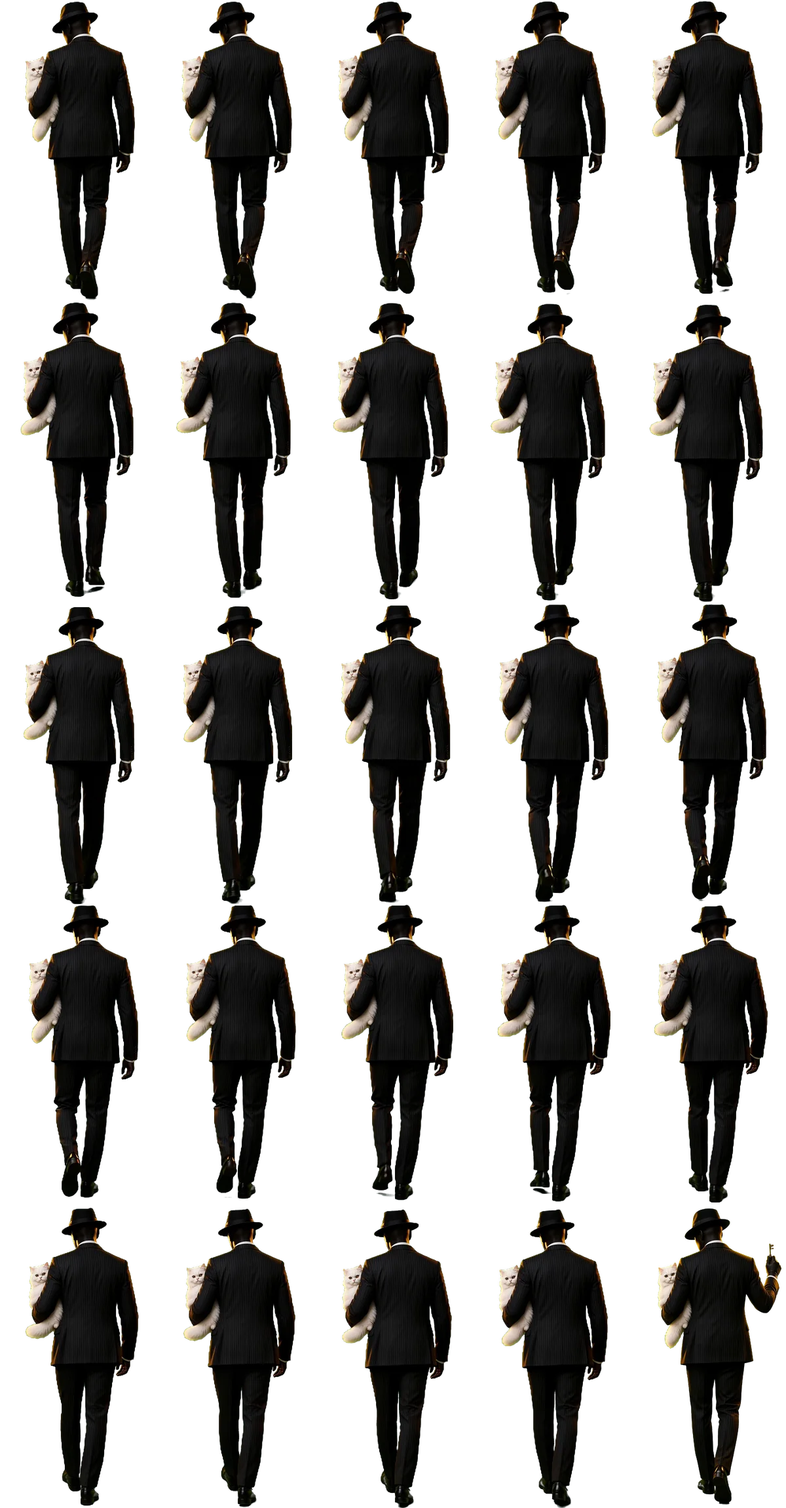
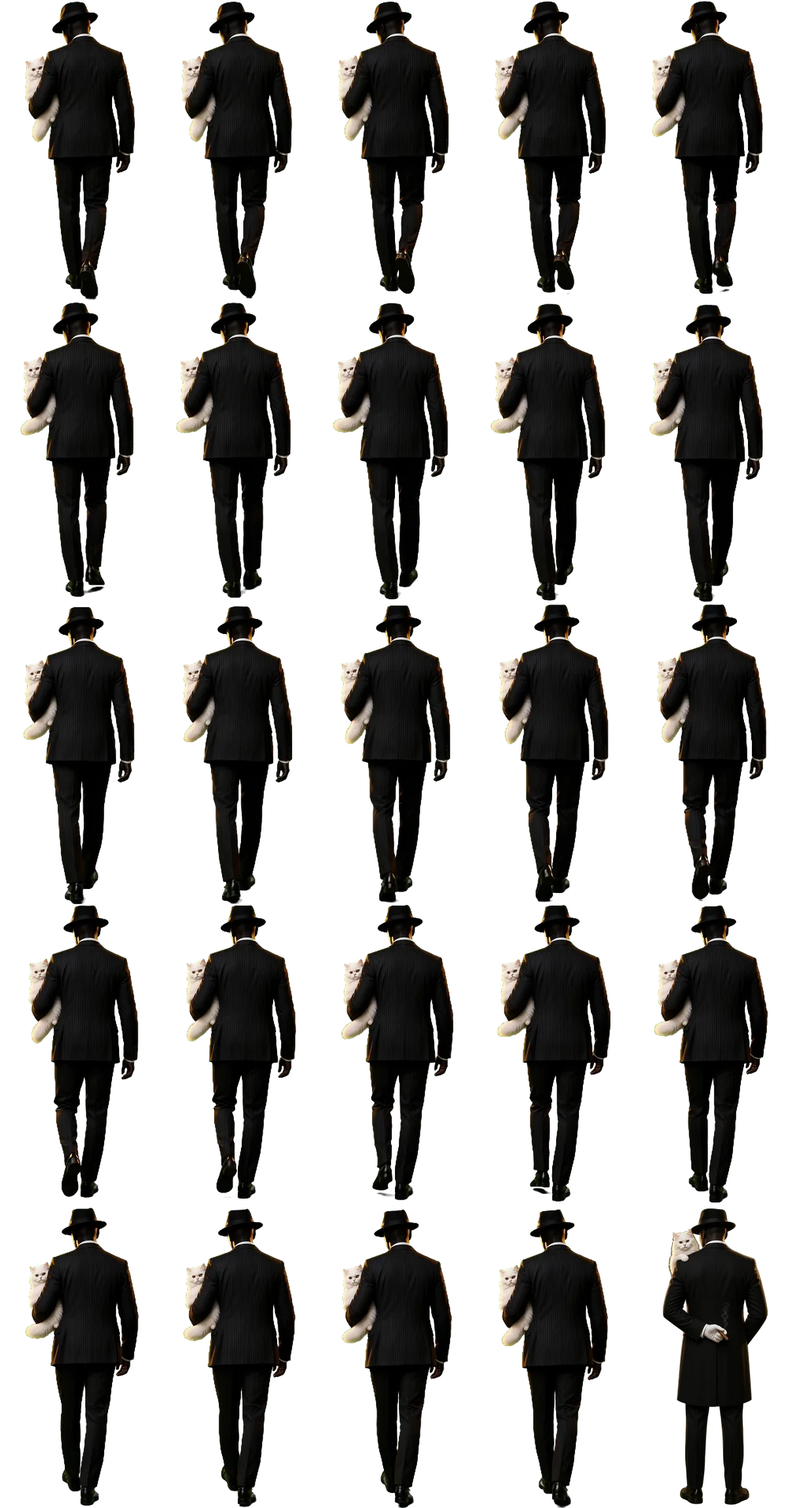
Wardrobe gate restyled as a palace doorway: carved honey-wood leaves with gilded rosettes and friezes, gilded architrave, white marble and trim; Lorenzo as doorman (tailcoat, white gloves, hand on the handle, cigar behind his back, cat on shoulder)

Changed region(s): [[0.8325, 0.8026, 1.0, 1.0]]

diff --git a/src/three/Experience.tsx b/src/three/Experience.tsx
@@ -162,6 +162,123 @@ function brassTexture() {
   const t = new THREE.CanvasTexture(c); t.wrapS = THREE.RepeatWrapping; t.colorSpace = THREE.SRGBColorSpace; t.anisotropy = 4
   return t
 }
+/* ---- the palace wardrobe gate: carved honey-wood leaves with gilded relief, a gilded architrave, white marble ---- */
+function goldGrad(g: CanvasRenderingContext2D, x0: number, y0: number, x1: number, y1: number) {
+  const gr = g.createLinearGradient(x0, y0, x1, y1)
+  gr.addColorStop(0, '#fff1b8'); gr.addColorStop(0.35, '#e8b852'); gr.addColorStop(0.7, '#b07a22'); gr.addColorStop(1, '#6e4612')
+  return gr
+}
+/* draw a shape twice: a dark offset (the carved shadow) and the gilt on top, so it reads as relief */
+function relief(g: CanvasRenderingContext2D, draw: () => void, fill: string | CanvasGradient, lw = 0) {
+  g.save(); g.translate(2.5, 3); g.fillStyle = 'rgba(60,34,8,.55)'; g.strokeStyle = 'rgba(60,34,8,.55)'; draw(); if (lw) { g.lineWidth = lw; g.stroke() } else g.fill(); g.restore()
+  g.fillStyle = fill; g.strokeStyle = fill; draw(); if (lw) { g.lineWidth = lw; g.stroke() } else g.fill()
+}
+function rosette(g: CanvasRenderingContext2D, cx: number, cy: number, R: number) {
+  relief(g, () => { g.beginPath(); g.arc(cx, cy, R, 0, Math.PI * 2) }, goldGrad(g, cx - R, cy - R, cx + R, cy + R), 7)
+  relief(g, () => { g.beginPath(); g.arc(cx, cy, R * 0.86, 0, Math.PI * 2) }, goldGrad(g, cx - R, cy - R, cx + R, cy + R), 2.5)
+  /* sunburst rays */
+  for (let k = 0; k < 48; k++) {
+    const a = (k / 48) * Math.PI * 2, r0 = R * 0.5, r1 = R * (k % 2 ? 0.74 : 0.82)
+    relief(g, () => { g.beginPath(); g.moveTo(cx + Math.cos(a - 0.03) * r0, cy + Math.sin(a - 0.03) * r0); g.lineTo(cx + Math.cos(a) * r1, cy + Math.sin(a) * r1); g.lineTo(cx + Math.cos(a + 0.03) * r0, cy + Math.sin(a + 0.03) * r0); g.closePath() }, goldGrad(g, cx - R, cy - R, cx + R, cy + R))
+  }
+  /* two rings of petals */
+  for (const [n, rr, len, wid] of [[16, 0.36, 0.17, 0.07], [12, 0.2, 0.12, 0.06]] as const) {
+    for (let k = 0; k < n; k++) {
+      const a = (k / n) * Math.PI * 2 + (n === 12 ? 0.13 : 0)
+      relief(g, () => { g.beginPath(); g.ellipse(cx + Math.cos(a) * R * rr, cy + Math.sin(a) * R * rr, R * len, R * wid, a, 0, Math.PI * 2) }, goldGrad(g, cx - R * 0.5, cy - R * 0.5, cx + R * 0.5, cy + R * 0.5))
+    }
+  }
+  relief(g, () => { g.beginPath(); g.arc(cx, cy, R * 0.1, 0, Math.PI * 2) }, '#fff0b0')
+}
+/* a scroll-and-acanthus frieze, mirrored about its centre */
+function frieze(g: CanvasRenderingContext2D, x: number, y: number, w: number, h: number) {
+  const cx = x + w / 2, cy = y + h / 2, gr = goldGrad(g, x, y, x + w, y + h)
+  for (const s of [-1, 1]) {
+    relief(g, () => {
+      g.beginPath(); g.moveTo(cx + s * h * 0.25, cy)
+      g.bezierCurveTo(cx + s * w * 0.18, cy - h * 0.55, cx + s * w * 0.3, cy + h * 0.45, cx + s * w * 0.42, cy - h * 0.05)
+      g.arc(cx + s * w * 0.42 - s * h * 0.12, cy - h * 0.05, h * 0.12, 0, Math.PI * 1.6, s < 0)
+    }, gr, 4.5)
+    for (let k = 0; k < 5; k++) {
+      const u = 0.1 + k * 0.075, lx = cx + s * w * u, ly = cy + (k % 2 ? 1 : -1) * h * 0.2
+      relief(g, () => { g.beginPath(); g.ellipse(lx, ly, h * 0.16, h * 0.07, s * (k % 2 ? 0.7 : -0.7), 0, Math.PI * 2) }, gr)
+    }
+  }
+  rosette(g, cx, cy, h * 0.3)
+}
+function raisedPanel(g: CanvasRenderingContext2D, x: number, y: number, w: number, h: number) {
+  /* bevel: light from the top left, shade to the bottom right */
+  const b = 14
+  g.fillStyle = 'rgba(255,226,160,.28)'; g.beginPath(); g.moveTo(x, y); g.lineTo(x + w, y); g.lineTo(x + w - b, y + b); g.lineTo(x + b, y + b); g.lineTo(x + b, y + h - b); g.lineTo(x, y + h); g.fill()
+  g.fillStyle = 'rgba(70,38,10,.42)'; g.beginPath(); g.moveTo(x + w, y); g.lineTo(x + w, y + h); g.lineTo(x, y + h); g.lineTo(x + b, y + h - b); g.lineTo(x + w - b, y + h - b); g.lineTo(x + w - b, y + b); g.fill()
+  relief(g, () => { g.beginPath(); g.rect(x + b + 6, y + b + 6, w - 2 * b - 12, h - 2 * b - 12) }, goldGrad(g, x, y, x + w, y + h), 4)
+}
+function woodBase(g: CanvasRenderingContext2D, W: number, H: number) {
+  const gr = g.createLinearGradient(0, 0, W, 0)
+  gr.addColorStop(0, '#9c6428'); gr.addColorStop(0.5, '#cf9447'); gr.addColorStop(1, '#a86d2e')
+  g.fillStyle = gr; g.fillRect(0, 0, W, H)
+  for (let i = 0; i < 140; i++) {
+    g.strokeStyle = `rgba(${90 + Math.random() * 60},${50 + Math.random() * 30},${15 + Math.random() * 15},${0.05 + Math.random() * 0.1})`
+    g.lineWidth = 0.6 + Math.random() * 2
+    let x = Math.random() * W; g.beginPath(); g.moveTo(x, 0)
+    for (let y = 0; y <= H; y += 40) { x += Math.sin(y * 0.01 + i) * 2 + (Math.random() - 0.5) * 2; g.lineTo(x, y) }
+    g.stroke()
+  }
+}
+function carvedLeafTexture() {
+  const W = 512, H = 1130, c = document.createElement('canvas'); c.width = W; c.height = H
+  const g = c.getContext('2d')!
+  woodBase(g, W, H)
+  const m = 42, iw = W - 2 * m
+  let y = 40
+  const rows: [number, 'frieze' | 'square' | 'tall'][] = [[120, 'frieze'], [iw, 'square'], [120, 'frieze'], [H - 40 - 40 - 120 - iw - 120 - 3 * 28, 'tall']]
+  for (const [h, kind] of rows) {
+    raisedPanel(g, m, y, iw, h)
+    if (kind === 'frieze') frieze(g, m + 26, y + 24, iw - 52, h - 48)
+    else if (kind === 'square') { rosette(g, W / 2, y + h / 2, iw * 0.36); for (const [qx, qy] of [[1, 1], [-1, 1], [1, -1], [-1, -1]]) rosette(g, W / 2 + qx * iw * 0.39, y + h / 2 + qy * iw * 0.39, 16) }
+    else { relief(g, () => { g.beginPath(); g.ellipse(W / 2, y + h / 2, iw * 0.3, h * 0.36, 0, 0, Math.PI * 2) }, goldGrad(g, m, y, m + iw, y + h), 4); rosette(g, W / 2, y + h / 2, iw * 0.14) }
+    y += h + 28
+  }
+  /* gilded edge beads */
+  g.fillStyle = goldGrad(g, 0, 0, 20, H); g.fillRect(0, 0, 8, H); g.fillRect(W - 8, 0, 8, H)
+  const t = new THREE.CanvasTexture(c); t.colorSpace = THREE.SRGBColorSpace; t.anisotropy = 8
+  return t
+}
+/* gilded carved moulding (bead + egg-and-dart), drawn along the texture's long side */
+function architraveTexture(horizontal: boolean) {
+  const L = 1024, S = 128, c = document.createElement('canvas'); c.width = horizontal ? L : S; c.height = horizontal ? S : L
+  const g = c.getContext('2d')!
+  g.save(); if (horizontal) { g.translate(L, 0); g.rotate(Math.PI / 2) }
+  g.fillStyle = goldGrad(g, 0, 0, S, 0); g.fillRect(0, 0, S, L)
+  g.fillStyle = 'rgba(80,46,10,.5)'; g.fillRect(36, 0, 3, L); g.fillRect(92, 0, 3, L)
+  for (let y = 0; y < L; y += 32) {
+    relief(g, () => { g.beginPath(); g.ellipse(64, y + 16, 18, 13, 0, 0, Math.PI * 2) }, goldGrad(g, 40, y, 90, y + 32))
+    relief(g, () => { g.beginPath(); g.arc(18, y + 16, 7, 0, Math.PI * 2) }, '#f5d27a')
+    relief(g, () => { g.beginPath(); g.arc(110, y + 16, 7, 0, Math.PI * 2) }, '#f5d27a')
+  }
+  g.restore()
+  const t = new THREE.CanvasTexture(c); t.wrapS = t.wrapT = THREE.RepeatWrapping; t.colorSpace = THREE.SRGBColorSpace; t.anisotropy = 4
+  return t
+}
+/* white and cream marble with soft grey veining */
+function whiteMarbleTexture() {
+  const N = 1024, c = document.createElement('canvas'); c.width = N; c.height = N
+  const g = c.getContext('2d')!
+  g.fillStyle = '#ece5d8'; g.fillRect(0, 0, N, N)
+  for (let i = 0; i < 70; i++) { const r = 60 + Math.random() * 220; const gr = g.createRadialGradient(0, 0, 0, 0, 0, r); gr.addColorStop(0, Math.random() < 0.5 ? 'rgba(255,252,244,.35)' : 'rgba(214,204,188,.25)'); gr.addColorStop(1, 'rgba(0,0,0,0)'); g.save(); g.translate(Math.random() * N, Math.random() * N); g.fillStyle = gr; g.fillRect(-r, -r, 2 * r, 2 * r); g.restore() }
+  g.filter = 'blur(1.5px)'
+  for (let k = 0; k < 18; k++) {
+    g.strokeStyle = `rgba(${120 + Math.random() * 30},${118 + Math.random() * 30},${118 + Math.random() * 30},${0.12 + Math.random() * 0.22})`
+    g.lineWidth = 0.8 + Math.random() * 2.6
+    let x = Math.random() * N, y = -20; g.beginPath(); g.moveTo(x, y)
+    const dx = (Math.random() - 0.5) * 3
+    while (y < N + 20) { x += dx * 12 + (Math.random() - 0.5) * 34; y += 14 + Math.random() * 26; g.lineTo(x, y) }
+    g.stroke()
+  }
+  g.filter = 'none'
+  const t = new THREE.CanvasTexture(c); t.wrapS = t.wrapT = THREE.RepeatWrapping; t.colorSpace = THREE.SRGBColorSpace; t.anisotropy = 4
+  return t
+}
 /* dark marble for the vault floor */
 function marbleTexture() {
   const c = document.createElement('canvas'); c.width = 512; c.height = 512
@@ -490,7 +607,13 @@ function Walk({ low, path }: { low: boolean; path: { current: WalkPath | null } 
       goldGlow: glowMat(new THREE.Color(1.0, 0.72, 0.32)),
       spill: glowMat(new THREE.Color(1.0, 0.7, 0.3)),
       cone: coneMat(),
-      vaultGold: new THREE.MeshBasicMaterial({ map: brassTexture(), color: new THREE.Color(2.3, 1.75, 0.85) }),
+      vaultGold: new THREE.MeshBasicMaterial({ color: new THREE.Color(0.62, 0.4, 0.18) }),
+      leaf: new THREE.MeshBasicMaterial({ map: carvedLeafTexture(), color: new THREE.Color(1.06, 0.98, 0.9) }),
+      archV: new THREE.MeshBasicMaterial({ map: architraveTexture(false), color: new THREE.Color(1.0, 0.92, 0.8) }),
+      archH: new THREE.MeshBasicMaterial({ map: architraveTexture(true), color: new THREE.Color(1.0, 0.92, 0.8) }),
+      marbleW: new THREE.MeshBasicMaterial({ map: (() => { const t = whiteMarbleTexture(); t.repeat.set(3, 1.4); return t })(), color: new THREE.Color(1.02, 0.99, 0.93) }),
+      trim: new THREE.MeshBasicMaterial({ map: (() => { const t = whiteMarbleTexture(); t.repeat.set(0.3, 1); return t })(), color: new THREE.Color(1.1, 1.07, 1.0) }),
+      trimShade: new THREE.MeshBasicMaterial({ color: new THREE.Color(0.55, 0.52, 0.47) }),
       seam: new THREE.MeshBasicMaterial({ color: new THREE.Color(4, 2.6, 0.9), toneMapped: false, transparent: true, opacity: 0 }),
       flood: glowMat(new THREE.Color(1.0, 0.74, 0.34)),
       glint: glowMat(new THREE.Color(1.0, 0.85, 0.5)),
@@ -604,26 +727,42 @@ function Walk({ low, path }: { low: boolean; path: { current: WalkPath | null } 
     add(new THREE.Mesh(quad([-sw, 3.2, STAIR_END], [sw, 3.2, STAIR_END], [sw, 3.2, 0], [-sw, 3.2, 0]), m.dark))
     /* the vault's light spilling up the stairwell */
     const spill = new THREE.Mesh(new THREE.PlaneGeometry(1, 1), m.spill); spill.position.set(0, 1.4, -0.6); spill.scale.set(3.2, 3.2, 1); add(spill)
-    /* the golden wardrobe that closes off the vault: two tall gilded doors, a lock at the seam, light behind them */
-    const VW = 4.3, VH = 5.6, VZ = VAULT_DOOR_Z
-    const flood = new THREE.Mesh(new THREE.PlaneGeometry(1, 1), m.flood); flood.position.set(0, 1.9, VZ - 0.5); flood.scale.set(11, 7.5, 1); add(flood)
+    /* the wardrobe gate that closes off the vault: a palace doorway. Two tall carved honey-wood leaves with gilded relief
+       (rosette medallion, scroll friezes), a gilded architrave, white classical trim, set in a white marble wall */
+    const VW = 2.15, VH = 5.2, VZ = VAULT_DOOR_Z
+    const flood = new THREE.Mesh(new THREE.PlaneGeometry(1, 1), m.flood); flood.position.set(0, 2.4, VZ - 2.5); flood.scale.set(10, 8.5, 1); add(flood)
     const mkVault = (side: number) => {
       const hinge = new THREE.Group(); hinge.position.set(-side * VW, 0, VZ)
-      const d = new THREE.Mesh(new THREE.BoxGeometry(VW, VH, 0.12), m.vaultGold); d.position.set(side * VW / 2, VH / 2, 0); hinge.add(d)
-      for (const [py, ph] of [[1.55, 2.3], [4.05, 2.1]]) {
-        const fr = new THREE.Mesh(new THREE.PlaneGeometry(VW - 0.7, ph), m.goldDim); fr.position.set(side * VW / 2, py, 0.062); hinge.add(fr)
-        const inn = new THREE.Mesh(new THREE.PlaneGeometry(VW - 0.84, ph - 0.14), m.vaultGold); inn.position.set(side * VW / 2, py, 0.064); hinge.add(inn)
-      }
-      const h = new THREE.Mesh(new THREE.BoxGeometry(0.05, 0.55, 0.06), m.gold); h.position.set(side * 0.16, 1.45, 0.09); hinge.add(h)
+      /* faces: +x -x +y -y +z(front) -z(back) */
+      const d = new THREE.Mesh(new THREE.BoxGeometry(VW, VH, 0.14), [m.vaultGold, m.vaultGold, m.vaultGold, m.vaultGold, m.leaf, m.leaf]); d.position.set(side * VW / 2, VH / 2, 0); hinge.add(d)
+      /* gilded lever handles near the meeting stiles, at the height of his gloved hand */
+      const h = new THREE.Mesh(new THREE.BoxGeometry(0.045, 0.42, 0.06), m.gold); h.position.set(side * (VW - 0.2), 1.05, 0.11); hinge.add(h)
+      const hp = new THREE.Mesh(new THREE.BoxGeometry(0.1, 0.16, 0.02), m.goldDim); hp.position.set(side * (VW - 0.2), 1.05, 0.08); hinge.add(hp)
       add(hinge); return hinge
     }
     const vl = mkVault(1), vr = mkVault(-1)
-    box(VW * 2 + 0.5, 0.36, 0.3, 0, VH + 0.18, VZ, m.door); box(VW * 2 + 0.6, 0.03, 0.04, 0, VH + 0.02, VZ + 0.16, m.goldDim)
-    for (const sx of [-1, 1]) box(0.3, VH + 0.36, 0.3, sx * (VW + 0.15), (VH + 0.36) / 2, VZ, m.door)
-    const seam = new THREE.Mesh(new THREE.PlaneGeometry(0.035, VH - 0.1), m.seam); seam.position.set(0, VH / 2, VZ + 0.07); add(seam)
-    /* the lock rides on the left door */
-    const lock = new THREE.Mesh(new THREE.BoxGeometry(0.16, 0.22, 0.05), m.gold); lock.position.set(VW - 0.08, 1.45, 0.09); vl.add(lock)
-    const glint = new THREE.Mesh(new THREE.PlaneGeometry(1, 1), m.glint); glint.position.set(0, 1.45, VZ + 0.2); glint.scale.set(0.7, 0.7, 1); add(glint)
+    /* gilded architrave */
+    const AW = 0.34
+    box(VW * 2 + AW * 2, AW, 0.24, 0, VH + AW / 2, VZ + 0.04, m.archH)
+    for (const sx of [-1, 1]) box(AW, VH + AW, 0.24, sx * (VW + AW / 2), (VH + AW) / 2, VZ + 0.04, m.archV)
+    /* white classical trim: pilasters, a cornice with a shadow line and a plinth course */
+    const PW = 0.5, X0 = VW + AW + 0.12
+    for (const sx of [-1, 1]) {
+      box(PW, VH + 0.9, 0.3, sx * (X0 + PW / 2), (VH + 0.9) / 2, VZ + 0.06, m.trim)
+      box(PW + 0.16, 0.22, 0.36, sx * (X0 + PW / 2), 0.11, VZ + 0.08, m.trim)
+      box(PW + 0.12, 0.16, 0.34, sx * (X0 + PW / 2), VH + 0.98, VZ + 0.07, m.trim)
+    }
+    const CW = (X0 + PW) * 2 + 0.5
+    box(CW, 0.36, 0.5, 0, VH + 1.24, VZ + 0.12, m.trim); box(CW - 0.1, 0.05, 0.46, 0, VH + 1.04, VZ + 0.12, m.trimShade); box(CW + 0.2, 0.12, 0.6, 0, VH + 1.48, VZ + 0.14, m.trim)
+    /* the marble wall around it (left, right, above), so the doorway is the only way through */
+    const WW = 16, WH = 12, hx = VW + AW
+    add(new THREE.Mesh(quad([-WW, -0.3, VZ - 0.02], [-hx, -0.3, VZ - 0.02], [-hx, WH, VZ - 0.02], [-WW, WH, VZ - 0.02], [3, 2.2]), m.marbleW))
+    add(new THREE.Mesh(quad([hx, -0.3, VZ - 0.02], [WW, -0.3, VZ - 0.02], [WW, WH, VZ - 0.02], [hx, WH, VZ - 0.02], [3, 2.2]), m.marbleW))
+    add(new THREE.Mesh(quad([-hx, VH + AW, VZ - 0.02], [hx, VH + AW, VZ - 0.02], [hx, WH, VZ - 0.02], [-hx, WH, VZ - 0.02], [0.8, 1.2]), m.marbleW))
+    const seam = new THREE.Mesh(new THREE.PlaneGeometry(0.03, VH - 0.1), m.seam); seam.position.set(0, VH / 2, VZ + 0.08); add(seam)
+    /* the lock rides on the left door, by the handle */
+    const lock = new THREE.Mesh(new THREE.BoxGeometry(0.12, 0.16, 0.05), m.gold); lock.position.set(VW - 0.07, 1.32, 0.1); vl.add(lock)
+    const glint = new THREE.Mesh(new THREE.PlaneGeometry(1, 1), m.glint); glint.position.set(-0.07, 1.1, VZ + 0.22); glint.scale.set(0.6, 0.6, 1); add(glint)
     /* Lorenzo + a soft contact shadow */
     const geo = new THREE.PlaneGeometry(LEAD.h * LEAD.aspect, LEAD.h); geo.translate(0, LEAD.h / 2, 0)
     const lead = new THREE.Mesh(geo, m.lead); lead.renderOrder = 5; lead.frustumCulled = false; add(lead)
@@ -665,7 +804,7 @@ function Walk({ low, path }: { low: boolean; path: { current: WalkPath | null } 
     void low
   })
   /* where Lorenzo is and which frame he shows */
-  const lv = useMemo(() => ({ p: new THREE.Vector3(), c: new THREE.Vector3(), e: new THREE.Vector3(), tint: new THREE.Color(), shop: new THREE.Color(0.78, 0.5, 0.5), stair: new THREE.Color(0.85, 0.7, 0.52), vault: new THREE.Color(0.5, 0.42, 0.34), gold: new THREE.Color(1.0, 0.72, 0.36) }), [])
+  const lv = useMemo(() => ({ p: new THREE.Vector3(), c: new THREE.Vector3(), e: new THREE.Vector3(), tint: new THREE.Color(), shop: new THREE.Color(0.78, 0.5, 0.5), stair: new THREE.Color(0.85, 0.7, 0.52), vault: new THREE.Color(0.78, 0.68, 0.56), gold: new THREE.Color(1.0, 0.72, 0.36) }), [])
   const leader = (t: number, camera: THREE.Camera) => {
     const P = path.current, b = built, m = mats.lead.uniforms
     if (!P) { b.lead.visible = false; b.shadow.visible = false; return }
@@ -685,7 +824,8 @@ function Walk({ low, path }: { low: boolean; path: { current: WalkPath | null } 
     /* frames by distance walked; the key frame while he stands at the lock */
     const ph = (s / LEAD.stride) * LEAD.n, f0 = Math.floor(ph), fr = ph - f0
     const keyed = smooth(stop - 0.25, stop, Math.min(P.dist(t) + P.lead(t), stop)) * (1 - smooth(INTO_LIGHT - 0.15, INTO_LIGHT + 0.2, t))
-    cellOff(((f0 % LEAD.n) + LEAD.n) % LEAD.n, m.uA.value)
+    /* once he has stopped at the doors, both blend slots hold the doorman pose (no ghost of the stride in the rim) */
+    cellOff(keyed > 0.6 ? LEAD.key : ((f0 % LEAD.n) + LEAD.n) % LEAD.n, m.uA.value)
     if (keyed > 0.001) { cellOff(LEAD.key, m.uB.value); m.uMix.value = keyed }
     else { cellOff((((f0 + 1) % LEAD.n) + LEAD.n) % LEAD.n, m.uB.value); m.uMix.value = fr }
     /* matched lighting: crimson shop, warm stairwell, near-silhouette in the vault, gold rim when the wardrobe opens */
@@ -693,7 +833,7 @@ function Walk({ low, path }: { low: boolean; path: { current: WalkPath | null } 
     lv.tint.copy(lv.shop).lerp(lv.stair, stair).lerp(lv.vault, vault)
     m.uTint.value.copy(lv.tint)
     const open = smooth(OPEN_AT - 0.1, OPEN_AT + 0.6, t)
-    m.uRimI.value = 0.22 + 0.2 * stair + 0.85 * open + 0.3 * mats.seam.opacity
+    m.uRimI.value = 0.18 + 0.16 * stair + 0.4 * open + 0.2 * mats.seam.opacity
     m.uRim.value.setRGB(1.0, 0.3, 0.28).lerp(lv.gold, Math.max(stair, open))
     /* fade in from the doorway (never pops in front of the lens), out into the light at the end */
     const near = smooth(0.7, 1.3, lv.c.set(x, y + 1.5, z).distanceTo(lv.e.copy(camera.position).sub(g.current!.position)))

diff --git a/docs/DESIGN.md b/docs/DESIGN.md
@@ -18,6 +18,9 @@ Defined as CSS custom properties in `src/styles.css` (`:root`).
 | `--muted` | `#a69a89` | secondary text |
 | `--warm` | `#f3dcc0` | warm highlights, prices in the storefront |
 | gold (vault) | `#e9c46a`, `#f2c46b`, `#8a6a2c` | vault brass, inspect kicker/price, turntable |
+| honey wood (wardrobe gate) | `#9c6428`, `#cf9447`, `#a86d2e` | carved door leaves (grain gradient) |
+| gilt relief | `#fff1b8` → `#e8b852` → `#b07a22` → `#6e4612` | rosettes, friezes, architrave mouldings |
+| white marble | `#ece5d8` base, veins `rgb(120–150 grey)` | the wall and classical trim around the gate |
 | gold flood (3D) | `rgb(2.2, 1.6, 0.7)` HDR | vault door light, inspect ring (tone mapping off) |
 
 Easing token: `--ease: cubic-bezier(.22,.61,.36,1)` (a soft ease-out used for every UI transition).
@@ -53,7 +56,7 @@ Kicker labels: uppercase, 0.66rem, letter-spacing 0.2em.
 | 2 | **Doors** | 2.5s (`TRANSITION_MS`), Skip | The logo splits into two hinged CSS-3D doors (`gateDoorL/R`), red light floods in behind, and the camera dollies through the store photo as red curtains part. |
 | 3 | **Storefront** | continuous | Rainy night storefront: lights flicker on (`lightsOn`), the neon sign glows and hums (`neonOn`, `hum`), there's rain in front and behind with floor splashes (`Rain.tsx`), and a slow dolly-in with depth parallax. Copy: "Night boutique · Bespoke tailoring" / "Dressed for the family business." |
 | 4 | **Lorenzo greeting** | rises in ~0.6s, line types out ~2–3s | Lorenzo (fedora, black pinstripe, red tie, burning cigar with ember pulse and smoke, white Persian cat that blinks) rises in at the bottom right and breathes. His time-of-day line types out and offers two choices: **The Godfather Attire Tour** and **The Godfather Premium Wardrobe**. Skip/Esc shows everything at once. |
-| 5 | **Walk-in (Premium)** | 0–3.4s walk, 3.5s key, 4.15–5.4s doors, 4.8s into the light, 5.75s land (6.4s total), Skip/Esc | The storefront hands over to the 3D camera. Lorenzo, seen from behind with the cat in his arm, leads briskly down the red runner between suit racks. The hidden wardrobe opens (0.7–1.45s), and there's a quick brass stair descent (2.2–2.8s). **Highlight, the golden vault:** he stops, raises the key (3.5s) and turns it (glint), a seam of light cracks (3.95s), the doors swing inward over 1.25s, gold light floods out, and the camera glides through into the showcase as the first piece lights up. Skip fades through black in 320ms. |
+| 5 | **Walk-in (Premium)** | 0–3.4s walk, 3.5s key, 4.15–5.4s doors, 4.8s into the light, 5.75s land (6.4s total), Skip/Esc | The storefront hands over to the 3D camera. Lorenzo, seen from behind with the cat in his arm, leads briskly down the red runner between suit racks. The hidden wardrobe opens (0.7–1.45s), and there's a quick brass stair descent (2.2–2.8s). **Highlight, the palace wardrobe gate:** a tall pair of carved honey-wood doors with gilded relief (a sunburst rosette medallion in a square panel, scroll-and-acanthus friezes above and below, a lower medallion panel), in a gilded bead-and-egg architrave, white classical pilasters and cornice, and a white/cream marble wall with soft grey veins. Lorenzo becomes the doorman: he stops in a black tailcoat with white gloves, his right hand at the gilded lever handle and his left behind his back holding the cigar, with the white Persian cat on his shoulder. The lock glints (3.5s), a seam of light cracks (3.95s), the doors swing inward over 1.25s (4.15s), warm gold light floods out from deep behind them, and the camera glides through into the showcase as the first piece lights up. Skip fades through black in 320ms. |
 | 6 | **Vault (showcase)** | change ≈0.5s spring | 12 pieces, each on a lit plinth in a gold arch, with brass panels, dark marble reflections and velvet accents. Swipe, drag, wheel, arrow keys, Home/End, or the arrow buttons. The focused piece is lit, sways and tilts with the pointer; neighbours dim (opacity overlay 0.58). Counter, Enquire on WhatsApp, View details, and the private-visit panel at the end. |
 | 7 | **Inspect** | open 0.45s fade + 0.55s scale, close 0.38s | "View details" or a tap on the focused piece opens a gold-lit turntable. A 2.5D garment mesh is built from the cut-out (depth relief, back side, soft shadow) and auto-rotates slowly (1.4). Drag to rotate (azimuth, polar −0.32…+0.06 rad around horizontal), pinch/scroll to zoom (distance 2.4–5.2). Name, tagline, price, WhatsApp, Full details. Esc/× returns focus to the opener. |
 | 8 | **Attire Tour** | cards fade up with 0.12s stagger | Grid of all pieces: 2 columns at 390px, 3 from 760px, 4 from 1100px. Filter chips: All, Suits and formal, Shirts, Wedding, Statement pieces. A card opens the detail sheet; "Enter the premium wardrobe" goes down to the vault (`DESCENT_MS = 2400`). |
@@ -66,7 +69,8 @@ Kicker labels: uppercase, 0.66rem, letter-spacing 0.2em.
 - **Camera:** one CatmullRom spline (centripetal) for the walk, distance-over-time from a monotone spline. It uses a wider lens while walking, depth of field on high tier, and crimson→gold fog and light.
 - **Lorenzo walk:** a 24-frame keyed sprite atlas (5×5, 2 steps) plus a key-raise frame. Frames are chosen by distance walked (no foot sliding) and blended. Shader fog and a rim light come from the alpha edge.
 - **Vault rail:** a critically damped spring (ω = 11, ~0.5s settle, 1/120s sub-steps, real-time up to 250ms frames). It's stepped inside the 3D frame before the camera and DOM pictures, so they never desync. Drag has an axis lock; release moves ±1 piece if dx > 50px or v > 0.4px/ms and hands the velocity to the spring. The wheel is limited to one piece per 650ms gesture. Neighbours are pre-decoded.
-- **Vault door:** key turn `smooth(KEY_AT+0.35, KEY_AT+0.6)`, seam `smooth(KEY_AT+0.45, OPEN_AT)`, doors `easeInOut((t-OPEN_AT)/OPEN_S)`, gold flood `smooth(OPEN_AT-0.1, OPEN_AT+0.55)` easing to 30% by the end.
+- **Wardrobe gate (vault doors):** built in code in `Walk` (`three/Experience.tsx`). The canvas textures are `carvedLeafTexture()` (512×1130: raised bevelled panels, `rosette()`, `frieze()`, gilt drawn twice with a dark offset so it reads as carved relief), `architraveTexture()` and `whiteMarbleTexture()`. The leaves are 2.15 × 5.2 m each. Lorenzo's doorman pose is cell 25 of `public/walk/lorenzo-walk.webp` (master: `assets-src/lorenzo/lorenzo-doorman.jpg`), held in both blend slots once he stops.
+- **Vault door timing:** key turn `smooth(KEY_AT+0.35, KEY_AT+0.6)`, seam `smooth(KEY_AT+0.45, OPEN_AT)`, doors `easeInOut((t-OPEN_AT)/OPEN_S)`, gold flood `smooth(OPEN_AT-0.1, OPEN_AT+0.55)` easing to 30% by the end.
 - **Storefront:** `dollyIn`, `lightsOn`, `neonOn`, `hum`, `sheen`; Lorenzo `hostIn`, `breathe`, `catBlink`, `ember`, `smoke`.
 - **Reduced motion:** no dolly, sway, tilt, typing or walk. Plain 0.25s fades, the 2D room, and the inspect view as a still image.
 

diff --git a/README.md b/README.md
@@ -92,7 +92,7 @@ See [docs/CONTENT.md](docs/CONTENT.md) for everything still marked PLACEHOLDER.
    - The storefront rushes into the glass doors and hands over to the 3D camera inside the shop.
    - The camera walks a red runner between racks of suits under spotlights, glancing at the racks with a light head-bob.
    - Lorenzo (seen from behind, cat in his arm) walks ahead; the hidden wardrobe at the end of the shop opens and the camera takes a quick brass stairwell down (about 3.4s in total).
-   - The highlight: at the **golden vault** Lorenzo turns the key, a seam of light cracks, the doors swing inward and gold light floods out, then the camera glides through onto the first piece.
+   - The highlight: the **palace wardrobe gate** (carved honey-wood doors with gilded rosettes and friezes, in a gilded architrave and white marble). Lorenzo, now a doorman in a tailcoat and white gloves, with one hand on the handle, the other behind his back holding the cigar, and the cat on his shoulder, unlocks it. A seam of light cracks, the doors swing inward and gold light floods out, then the camera glides through onto the first piece.
    - The camera follows one CatmullRom spline eased over time, with a wider lens while walking and depth of field (desktop). Fog and light shift from crimson to gold.
    - The vault pictures are fetched during the walk.
 

diff --git a/docs/CONTENT.md b/docs/CONTENT.md
@@ -37,7 +37,7 @@ Everything marked `PLACEHOLDER` in `src/data.ts` must be replaced before launch.
 | `store/` | storefront photo (PNG master + JPG variants) and the generated HD store variants (collection, animal print) |
 | `reference/` | look-and-feel references: hero/suit/blazer/animal reference crops and stills from the store's Instagram reel |
 | `products/` | generated product originals (8 pieces × 4 views) and the store-photo crops |
-| `lorenzo/` | Lorenzo figure previews and the hand/key study. The published, keyed Lorenzo and walk atlas are at full working resolution in `public/tailor/` and `public/walk/` |
+| `lorenzo/` | Lorenzo figure previews, the hand/key study, and `lorenzo-doorman.jpg` (the generated doorman pose used at the wardrobe gate). The published, keyed Lorenzo and walk atlas are at full working resolution in `public/tailor/` and `public/walk/` |
 | `concept-stills/` | early concept frames (landing host, door opening, bunker wardrobe, shirt showcase) |
 
 The one-off image prep scripts are in `scripts/asset-prep/`. The responsive image pipeline is `scripts/imgs.py`.
